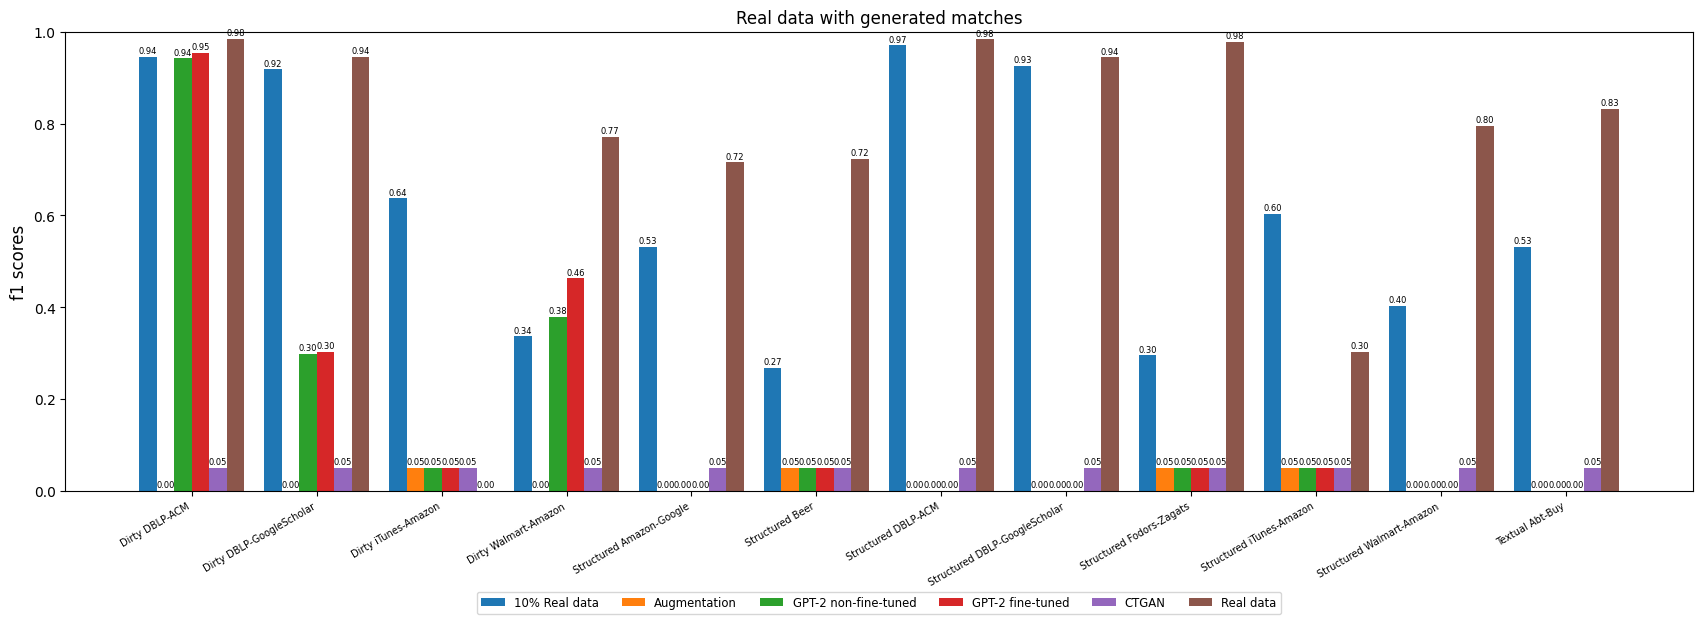
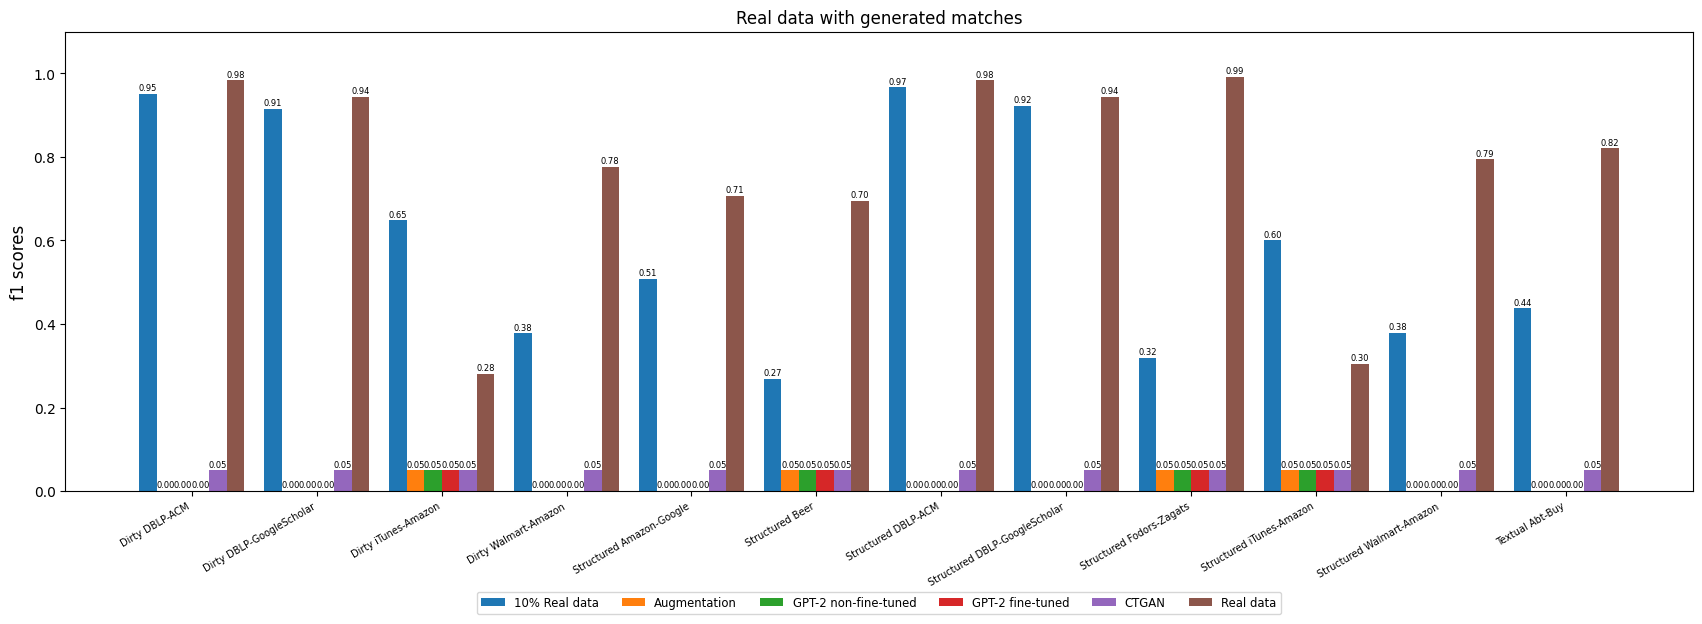
added stuff

diff --git a/ditto/Writer_output/graph_maker.py b/ditto/Writer_output/graph_maker.py
@@ -67,7 +67,7 @@ def make_plot(plot_type, title, decimated=True):
     ax.set_title(title)
     
     # Limiting the y-axis
-    ax.set_ylim([0, 1])
+    ax.set_ylim([0, 1.1])
 
     # Slight formatting of the labels to make the graphs sexy
     for i in range(len(labels)): labels[i] = labels[i].replace("_", " ")

diff --git a/ditto/create_jobs.py b/ditto/create_jobs.py
@@ -1,7 +1,6 @@
 import os, shutil, random
 
 IDUN_PATH = "/cluster/home/danilasm/masters/Idun/"
-IDUN_PATH = "../"
 
 if not os.path.exists(IDUN_PATH + "ditto/jobs"):
     os.makedirs(IDUN_PATH + "ditto/jobs")
